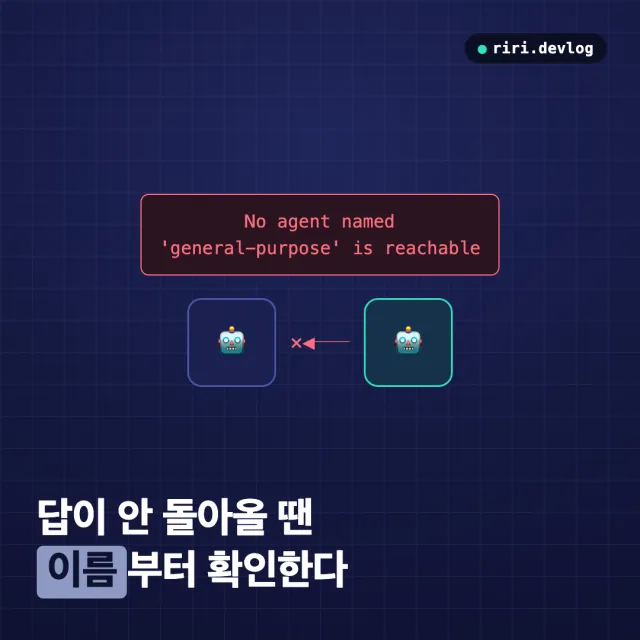
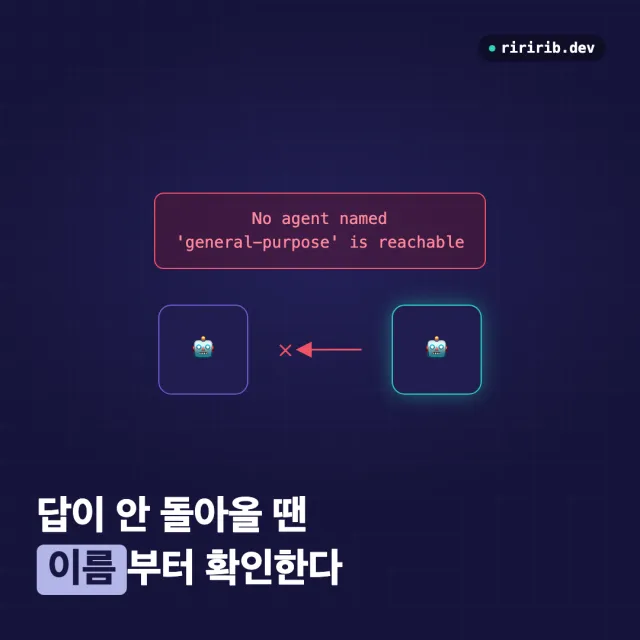
feat: 다이어그램형 커버 2장 재생성 + 소스 저장
PNG만 남고 소스가 없어 마크를 바꿀 수 없던 2장을 재현하고,
tools/covers-diagram/에 템플릿과 렌더러를 남겨 다음엔 다시 그리지 않게 했다.

- 우상단 마크 riri.devlog → riririb.dev
- html에 바탕색 지정: body에만 배경을 주면 캔버스 여백이 흰색으로 남아
  우하단에 흰 블록이 생겼다
- 📁는 이 환경에서 무채색으로 떨어져 🗂로 교체

diff --git a/tools/covers-diagram/template.html b/tools/covers-diagram/template.html
@@ -1,0 +1,67 @@
+<!doctype html>
+<meta charset="utf-8">
+<!--
+  다이어그램형 커버 템플릿 (1080×1080).
+
+  대부분의 커버는 gen_cover.py(FLUX 배경 + 텍스트 오버레이)로 만들지만,
+  구조를 그림으로 보여줘야 하는 글은 이 템플릿으로 만든다.
+  원래 이 두 장은 소스 없이 PNG만 남아 있어서, 우상단 마크를 바꾸려고
+  전체를 다시 그려야 했다(2026-09-29). 앞으로는 이 파일을 고쳐 재현한다.
+
+  사용: render.py 가 window.__CFG__ 를 주입해 컷별로 렌더한다.
+-->
+<style>
+  * { margin: 0; box-sizing: border-box; }
+  /* body에만 배경을 주면 캔버스 여백이 흰색으로 남아 우하단에 흰 블록이 생긴다.
+     html에도 같은 바탕색을 깔아 전면을 덮는다. */
+  html { background: #16143a; }
+  body {
+    width: 1080px; height: 1080px; position: relative; overflow: hidden;
+    background:
+      linear-gradient(rgba(124,116,214,.07) 1px, transparent 1px) 0 0 / 60px 60px,
+      linear-gradient(90deg, rgba(124,116,214,.07) 1px, transparent 1px) 0 0 / 60px 60px,
+      radial-gradient(900px 600px at 50% 40%, #232057, #16143a 70%);
+    font-family: "Pretendard", "Apple SD Gothic Neo", -apple-system, sans-serif;
+    color: #fff;
+  }
+  /* 우상단 브랜드 마크 — gen_cover.py의 .mark와 같은 규격을 유지한다 */
+  .mark {
+    position: absolute; top: 58px; right: 58px;
+    display: inline-flex; align-items: center; gap: 9px;
+    font-family: "SF Mono", ui-monospace, monospace; font-size: 24px; font-weight: 600;
+    background: rgba(0,0,0,.34); padding: 9px 18px; border-radius: 40px;
+  }
+  .mdot { width: 11px; height: 11px; border-radius: 50%; background: #2dd4bf; }
+
+  .stage { position: absolute; inset: 0; display: flex; align-items: center; justify-content: center; }
+
+  .node {
+    width: 152px; height: 152px; border-radius: 22px;
+    background: #211d4f; border: 2px solid #6b5fd0;
+    display: flex; flex-direction: column; align-items: center; justify-content: center; gap: 10px;
+  }
+  .node.hot { border-color: #2dd4bf; box-shadow: 0 0 34px rgba(45,212,191,.42); }
+  .node .ico { font-size: 40px; line-height: 1; }
+  .node .lb { font-family: "SF Mono", ui-monospace, monospace; font-size: 20px; color: #cfd2f2; }
+
+  .errbox {
+    border: 2px solid #f2536a; border-radius: 16px; background: rgba(120,20,40,.34);
+    padding: 22px 34px; font-family: "SF Mono", ui-monospace, monospace;
+    font-size: 27px; line-height: 1.5; color: #ff8a9c; text-align: center; white-space: pre;
+  }
+
+  .hl { position: absolute; left: 62px; bottom: 74px; font-size: 68px; font-weight: 800; line-height: 1.3; letter-spacing: -1px; }
+  .hl .hi { background: #b2b6e8; color: #191640; padding: 2px 18px; border-radius: 12px;
+            box-decoration-break: clone; -webkit-box-decoration-break: clone; }
+</style>
+
+<span class="mark"><span class="mdot"></span><span id="mark">riririb.dev</span></span>
+<div class="stage" id="stage"></div>
+<div class="hl" id="hl"></div>
+
+<script>
+  const C = window.__CFG__ || {};
+  document.getElementById('mark').textContent = C.mark || 'riririb.dev';
+  document.getElementById('stage').innerHTML = C.stage || '';
+  document.getElementById('hl').innerHTML = C.headline || '';
+</script>

diff --git a/tools/covers-diagram/render.py b/tools/covers-diagram/render.py
@@ -1,0 +1,110 @@
+#!/usr/bin/env python3
+"""다이어그램형 커버 렌더러 (template.html → 1080² PNG + 640² WebP).
+
+gen_cover.py는 FLUX 배경이 있는 글에 쓰고, 구조를 그림으로 보여줘야 하는 글은 이쪽을 쓴다.
+컷 정의는 아래 COVERS에 둔다 — **소스를 여기 남겨야 나중에 마크나 문구를 바꿀 때 다시 그릴 수 있다.**
+
+사용: python3 tools/covers-diagram/render.py            # 전체
+      python3 tools/covers-diagram/render.py <slug>     # 하나만
+"""
+import json
+import os
+import subprocess
+import sys
+import tempfile
+from pathlib import Path
+
+HERE = os.path.dirname(os.path.abspath(__file__))
+REPO = os.path.dirname(os.path.dirname(HERE))
+OUT_DIR = os.path.join(REPO, "assets", "img", "covers")
+CHROME = "/Applications/Google Chrome.app/Contents/MacOS/Google Chrome"
+
+ARROW_G = "#2dd4bf"   # 성공 방향
+ARROW_R = "#f2536a"   # 끊긴 방향
+
+
+def arrows_svg() -> str:
+    """두 노드 사이의 화살표 3개: 질문(→) / 회신 실패(✗ ←) / 이름 붙인 뒤 회신(✓ ←)."""
+    return f"""
+    <svg width="300" height="152" viewBox="0 0 300 152" style="overflow:visible">
+      <defs>
+        <marker id="g" markerWidth="9" markerHeight="9" refX="7" refY="4.5" orient="auto">
+          <path d="M0,0 L9,4.5 L0,9 z" fill="{ARROW_G}"/></marker>
+        <marker id="r" markerWidth="9" markerHeight="9" refX="7" refY="4.5" orient="auto">
+          <path d="M0,0 L9,4.5 L0,9 z" fill="{ARROW_R}"/></marker>
+      </defs>
+      <line x1="10" y1="26" x2="280" y2="26" stroke="{ARROW_G}" stroke-width="3" marker-end="url(#g)"/>
+      <line x1="290" y1="76" x2="45" y2="76" stroke="{ARROW_R}" stroke-width="3" marker-end="url(#r)"/>
+      <text x="14" y="86" fill="{ARROW_R}" font-size="30" font-weight="700">✕</text>
+      <line x1="290" y1="126" x2="20" y2="126" stroke="{ARROW_G}" stroke-width="3" marker-end="url(#g)"/>
+      <text x="252" y="136" fill="{ARROW_G}" font-size="28" font-weight="700">✓</text>
+    </svg>"""
+
+
+COVERS = {
+    "ai-business-team-1-subagent-cannot-reply": {
+        "headline": '서브에이전트 협업,<br><span class="hi">이름 하나</span>로 되살렸다',
+        "stage": f"""
+          <div style="display:flex;align-items:center;gap:34px;margin-top:-90px">
+            <div class="node"><span class="ico">🗂</span><span class="lb">src-desk</span></div>
+            {arrows_svg()}
+            <div class="node hot"><span class="ico">⚖</span><span class="lb">gate-desk</span></div>
+          </div>""",
+    },
+    "subagent-no-agent-reachable-reply-failure": {
+        "headline": '답이 안 돌아올 땐<br><span class="hi">이름</span>부터 확인한다',
+        "stage": """
+          <div style="display:flex;flex-direction:column;align-items:center;gap:60px;margin-top:-90px">
+            <div class="errbox">No agent named
+'general-purpose' is reachable</div>
+            <div style="display:flex;align-items:center;gap:46px">
+              <div class="node"><span class="ico">🤖</span></div>
+              <svg width="150" height="40" style="overflow:visible">
+                <defs><marker id="r2" markerWidth="9" markerHeight="9" refX="7" refY="4.5" orient="auto">
+                  <path d="M0,0 L9,4.5 L0,9 z" fill="#f2536a"/></marker></defs>
+                <line x1="145" y1="20" x2="40" y2="20" stroke="#f2536a" stroke-width="3" marker-end="url(#r2)"/>
+                <text x="6" y="31" fill="#f2536a" font-size="28" font-weight="700">✕</text>
+              </svg>
+              <div class="node hot"><span class="ico">🤖</span></div>
+            </div>
+          </div>""",
+    },
+}
+
+
+def render(slug: str, cfg: dict) -> str:
+    tpl = Path(os.path.join(HERE, "template.html")).read_text(encoding="utf-8")
+    # 설정 주입: 템플릿이 읽는 window.__CFG__ 를 <script> 앞에 심는다
+    page = tpl.replace("<script>", f"<script>window.__CFG__={json.dumps(cfg, ensure_ascii=False)};</script>\n<script>", 1)
+    with tempfile.NamedTemporaryFile("w", suffix=".html", delete=False, encoding="utf-8") as f:
+        f.write(page)
+        hp = f.name
+    out = os.path.join(OUT_DIR, slug + ".png")
+    subprocess.run([CHROME, "--headless", "--disable-gpu", "--hide-scrollbars", "--no-sandbox",
+                    "--allow-file-access-from-files", "--force-device-scale-factor=1",
+                    "--window-size=1080,1080", "--virtual-time-budget=6000",
+                    "--screenshot=" + out, Path(hp).as_uri()],
+                   check=True, stdout=subprocess.DEVNULL, stderr=subprocess.DEVNULL)
+    os.unlink(hp)
+    print("  ✓", slug + ".png")
+    webp = out[:-4] + ".webp"
+    try:
+        subprocess.run(["cwebp", "-quiet", "-q", "80", "-resize", "640", "640", out, "-o", webp], check=True)
+        print("  ✓", os.path.basename(webp))
+    except FileNotFoundError:
+        print("  [!] cwebp 없음 — WebP 미생성")
+    return out
+
+
+def main() -> int:
+    want = sys.argv[1:] or list(COVERS)
+    for slug in want:
+        if slug not in COVERS:
+            print(f"  [!] 모르는 slug: {slug}")
+            return 1
+        render(slug, COVERS[slug])
+    return 0
+
+
+if __name__ == "__main__":
+    sys.exit(main())
